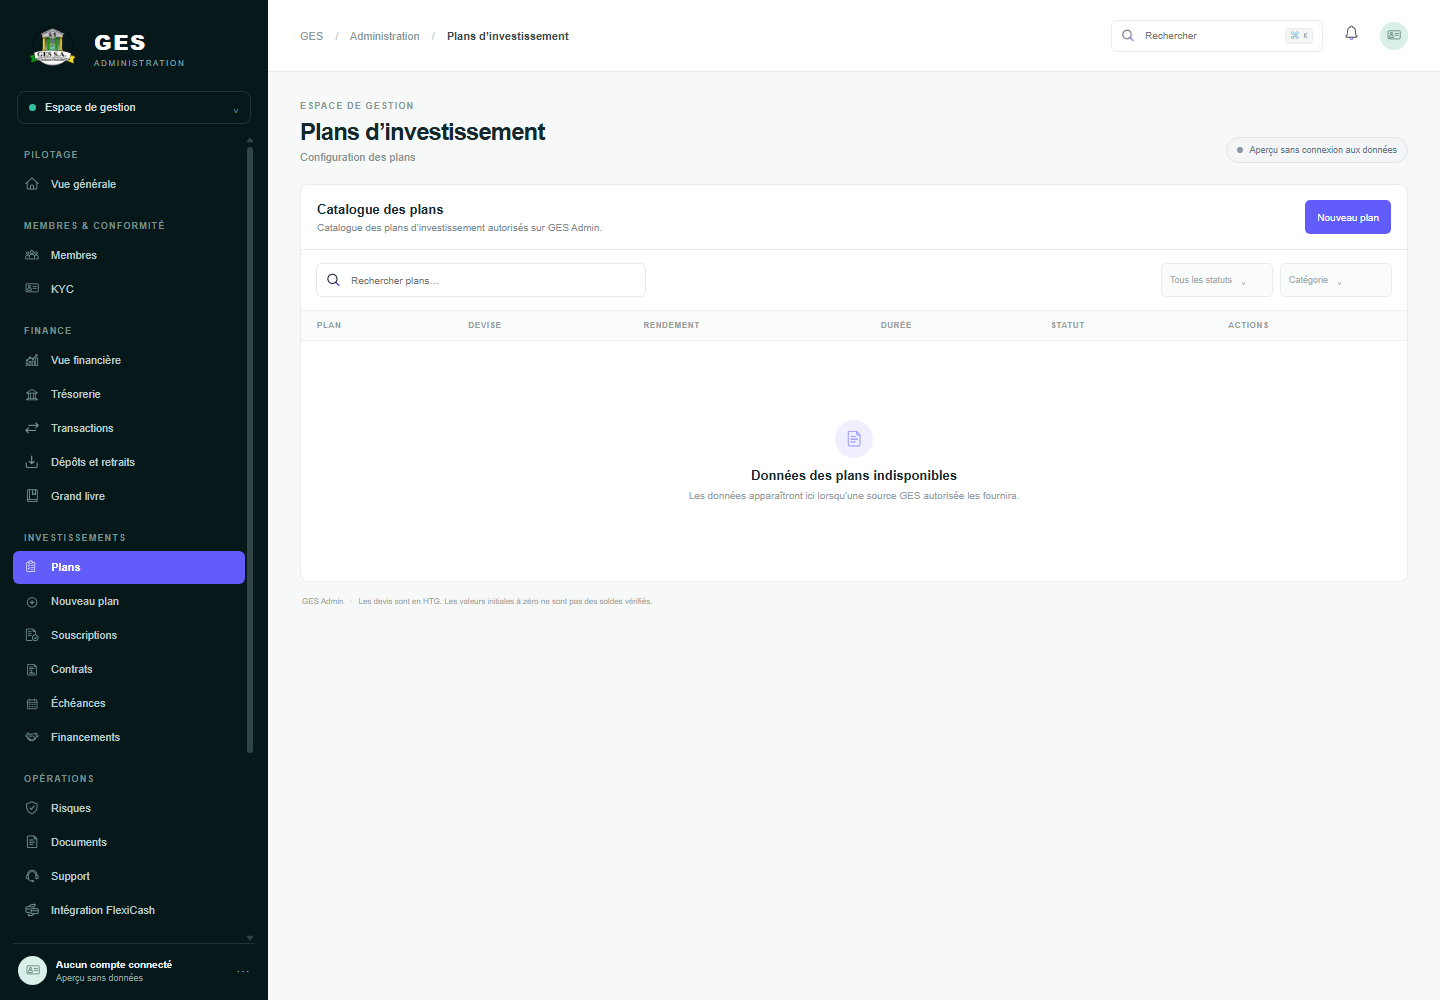
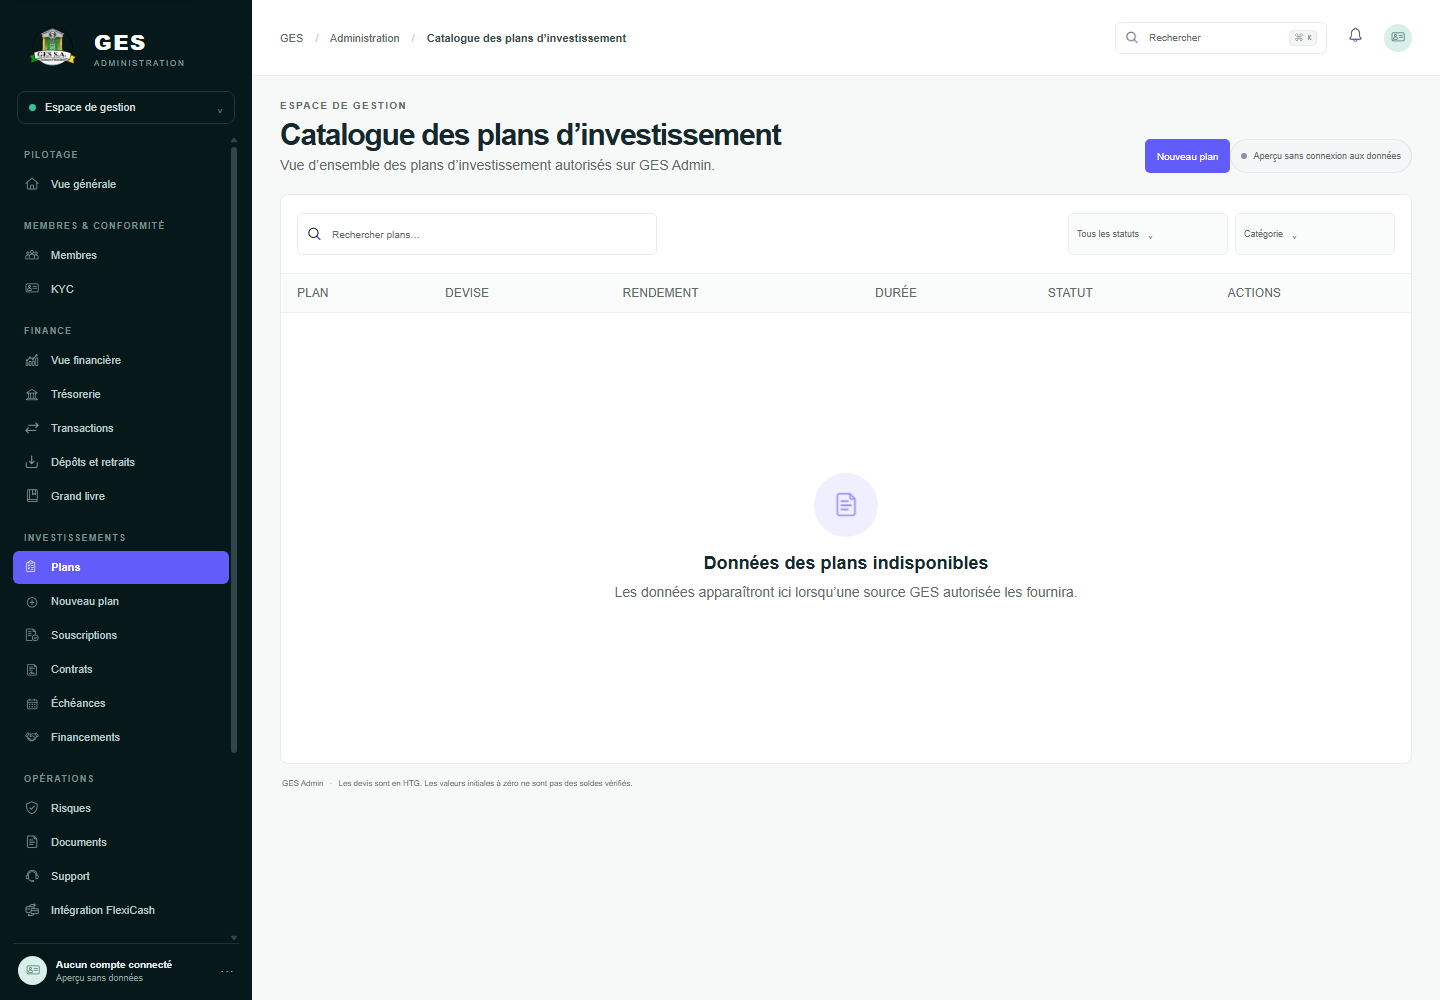
Align investment plan catalogue with MF-14

diff --git a/components/admin-shell.tsx b/components/admin-shell.tsx
@@ -24,7 +24,7 @@ const pages: Record<string, { title: string; subtitle: string }> = {
   "vue-generale": { title: "Centre de commandement", subtitle: "Vue d’ensemble de l’activité financière et opérationnelle de GES Admin." },
   membres: { title: "Membres", subtitle: "Consultez et gérez les comptes membres." }, kyc: { title: "Conformité KYC", subtitle: "Vérification des dossiers" },
   "vue-financiere": { title: "Vue financière générale", subtitle: "Aperçu de la position financière de GES Admin en HTG et USD." }, tresorerie: { title: "Trésorerie", subtitle: "Positions de trésorerie" }, transactions: { title: "Transactions", subtitle: "Consultez et gérez l’ensemble des transactions." },
-  "depots-retraits": { title: "Dépôts et retraits", subtitle: "Suivi des mouvements entrants et sortants" }, "grand-livre": { title: "Grand livre et rapprochement", subtitle: "Consultation du grand livre comptable et rapprochement des soldes." }, plans: { title: "Plans d’investissement", subtitle: "Configuration des plans" },
+  "depots-retraits": { title: "Dépôts et retraits", subtitle: "Suivi des mouvements entrants et sortants" }, "grand-livre": { title: "Grand livre et rapprochement", subtitle: "Consultation du grand livre comptable et rapprochement des soldes." }, plans: { title: "Catalogue des plans d’investissement", subtitle: "Vue d’ensemble des plans d’investissement autorisés sur GES Admin." },
   souscriptions: { title: "Souscriptions", subtitle: "Demandes de souscription" }, contrats: { title: "Contrats d’investissement", subtitle: "Registre des contrats d’investissement GES." }, echeances: { title: "Échéances", subtitle: "Calendrier des échéances" }, financements: { title: "Financements", subtitle: "Suivi des financements" }, "plans/nouveau": { title: "Nouveau plan d’investissement", subtitle: "Créer un nouveau plan d’investissement (brouillon)." },
   risques: { title: "Risques", subtitle: "Suivi des alertes et contrôles" }, documents: { title: "Documents", subtitle: "Bibliothèque documentaire" }, support: { title: "Support", subtitle: "Demandes d’assistance" }, rapports: { title: "Rapports", subtitle: "Rapports de gestion" }, equipe: { title: "Équipe", subtitle: "Accès et rôles de l’équipe" }, audit: { title: "Audit", subtitle: "Journal des actions administratives" }, parametres: { title: "Paramètres", subtitle: "Configuration de l’espace" }, notifications: { title: "Notifications", subtitle: "Centre de notifications administratives" }, "roles-permissions": { title: "Rôles et permissions", subtitle: "Les permissions effectives sont contrôlées côté serveur" }, "integrations-flexicash": { title: "Intégration FlexiCash", subtitle: "Les espaces GES et FlexiCash restent séparés" },
 };
@@ -148,7 +148,7 @@ export function AdminShell({ section }: { section: string }) {
     </aside>
     {menuOpen && <button className="drawer-backdrop visible" type="button" aria-label="Fermer le menu" tabIndex={-1} onClick={closeMenu}/>}
     <main className="main-area" id="main-content" tabIndex={-1} inert={menuOpen}><header className="topbar"><button ref={menuButtonRef} className="mobile-menu-toggle" onClick={() => menuOpen ? closeMenu() : setMenuOpen(true)} aria-label={menuOpen ? "Fermer le menu" : "Ouvrir le menu"} aria-expanded={menuOpen} aria-controls="primary-navigation">{menuOpen ? <Image src="/assets/icons/close.webp" alt="" width={19} height={19}/> : <span className="menu-bars" aria-hidden="true"/>}</button><div className="breadcrumb">GES <span>/</span> Administration <span>/</span> <b>{page.title}</b></div><div className="top-actions"><label className="search"><Image src="/assets/icons/search.webp" alt="" width={15} height={15}/><input placeholder="Rechercher" aria-label="Rechercher" value={searchQuery} onChange={(event) => setSearchQuery(event.target.value)}/><kbd>⌘ K</kbd></label><Link href="/admin/notifications" className="bell" aria-label="Notifications"><Image src="/assets/icons/notification.webp" alt="" width={19} height={19}/></Link><div className="top-avatar"><Image src="/assets/icons/identity.webp" alt="" width={16} height={16}/></div></div></header>
-      <div className={`content ${key === "plans/nouveau" ? "plan-content" : ""}`}><div className="page-heading"><div>{key !== "transactions" && <div className="eyebrow">ESPACE DE GESTION</div>}<h1>{page.title}</h1><p>{page.subtitle}</p></div><div className="heading-actions"><span className="status-pill preview-pill"><i/> Aperçu sans connexion aux données</span></div></div>
+      <div className={`content ${key === "plans/nouveau" ? "plan-content" : ""}`}><div className="page-heading"><div>{key !== "transactions" && <div className="eyebrow">ESPACE DE GESTION</div>}<h1>{page.title}</h1><p>{page.subtitle}</p></div><div className="heading-actions">{key === "plans" && <Link className="primary-button" href="/admin/plans/nouveau">Nouveau plan</Link>}<span className="status-pill preview-pill"><i/> Aperçu sans connexion aux données</span></div></div>
       {key === "notifications" ? <NotificationsWorkspace query={searchQuery} onQueryChange={setSearchQuery}/> : key === "plans/nouveau" ? <><Link href="/admin/plans" className="plan-back">← Retour aux plans</Link><PlanForm/></> : overview ? <>{financial && <div className="module-notice">Valeurs initiales — les montants affichés sont à confirmer et ne constituent pas des soldes vérifiés.</div>}<div className={`metric-grid ${financial ? "financial-metrics" : ""}`}>{metrics.map(([label,value,caption])=><MetricCard key={label} label={label} value={value} caption={caption}/>)}</div>
       {financial && <UsdUnavailable/>}
       <div className={`overview-grid ${financial ? "financial-overview-grid" : "command-overview-grid"}`}><section className="panel"><div className="panel-head"><div><h2>{financial ? "Tendance de trésorerie" : "Tendance financière"}</h2></div>{financial && <button className="select-button" disabled title="Les données sont indisponibles">Période⌄</button>}</div><div className="chart-empty"><div className="chart-lines"><span/><span/><span/><span/></div><div className="chart-message">Aucune donnée disponible</div></div></section><section className="panel breakdown"><div className="panel-head"><div><h2>{financial ? "Obligations à venir" : "Répartition des investissements"}</h2></div>{financial && <button className="dots" disabled aria-label="Options indisponibles">···</button>}</div>{financial ? <div className="donut-wrap"><p>Aucune donnée disponible</p></div> : <div className="donut-wrap"><div className="donut"><div/></div><p>Aucune donnée disponible</p></div>}</section></div>

diff --git a/components/module-workspace.tsx b/components/module-workspace.tsx
@@ -2,7 +2,6 @@
 
 import { useState } from "react";
 import Image from "next/image";
-import Link from "next/link";
 
 type ModulePage = {
   columns: string[];
@@ -11,7 +10,6 @@ type ModulePage = {
   description: string;
   searchPlaceholder?: string;
   tabs?: string[];
-  action?: { label: string; href: string };
 };
 
 const pages: Record<string, ModulePage> = {
@@ -19,7 +17,7 @@ const pages: Record<string, ModulePage> = {
   kyc: { description: "Consultez les dossiers de vérification retournés par une source GES autorisée.", filters: ["Tous les dossiers", "Tous les statuts"], columns: ["PRIORITÉ", "DOSSIER", "DATE DE SOUMISSION", "RÉVISEUR", "STATUT", "ACTIONS"], empty: "Données KYC indisponibles" },
   transactions: { description: "Consultez les transactions retournées par une source GES autorisée.", searchPlaceholder: "Rechercher une transaction…", filters: ["Tous les types", "Tous les statuts", "Sélectionner une période"], columns: ["Date", "Référence", "Membre", "Type", "Montant (HTG)", "Statut", "Actions"], empty: "Données de transaction indisponibles" },
   "depots-retraits": { description: "Suivez les dépôts et retraits liés aux opérations GES.", filters: ["Tous les statuts", "Période"], tabs: ["Toutes les opérations", "Dépôts", "Retraits"], columns: ["DATE", "RÉFÉRENCE", "MEMBRE", "TYPE", "MONTANT (HTG)", "STATUT"], empty: "Données opérationnelles indisponibles" },
-  plans: { description: "Catalogue des plans d’investissement autorisés sur GES Admin.", filters: ["Tous les statuts", "Catégorie"], columns: ["PLAN", "DEVISE", "RENDEMENT", "DURÉE", "STATUT", "ACTIONS"], empty: "Données des plans indisponibles", action: { label: "Nouveau plan", href: "/admin/plans/nouveau" } },
+  plans: { description: "Catalogue des plans d’investissement autorisés sur GES Admin.", filters: ["Tous les statuts", "Catégorie"], columns: ["PLAN", "DEVISE", "RENDEMENT", "DURÉE", "STATUT", "ACTIONS"], empty: "Données des plans indisponibles" },
   souscriptions: { description: "Consultez les souscriptions retournées par une source GES autorisée.", filters: ["Tous les statuts", "Tous les plans"], columns: ["DATE", "PLAN", "MEMBRE", "MONTANT INVESTI (HTG)", "STATUT", "ACTIONS"], empty: "Données de souscription indisponibles" },
   contrats: { description: "Registre des contrats d’investissement retournés par une source GES autorisée.", filters: ["Tous les statuts", "Tous les plans", "Période"], columns: ["CONTRAT", "MEMBRE", "PLAN", "PRINCIPAL (HTG)", "DATE DE DÉBUT", "ÉCHÉANCE", "STATUT", "DOCUMENTS"], empty: "Données contractuelles indisponibles" },
   financements: { description: "Dossiers de financement relevant de GES.", filters: ["Tous les statuts", "Tous les types"], columns: ["PROJET OU BÉNÉFICIAIRE", "MONTANT PROPOSÉ (HTG)", "ÉVALUATION DU RISQUE", "DOCUMENTS", "STATUT", "ÉTAPES"], empty: "Données de financement indisponibles" },
@@ -75,5 +73,5 @@ export function ModuleWorkspace({ sectionKey, query, onQueryChange }: { sectionK
 }
 
 function GenericTable({ sectionKey, page, query, onQueryChange, activeTab, setActiveTab }: { sectionKey: string; page: ModulePage; query: string; onQueryChange: (value: string) => void; activeTab: number; setActiveTab: (value: number) => void }) {
-  return <section className="panel list-panel module-list-panel">{page.action && <div className="module-panel-header"><div><h2>Catalogue des plans</h2><p>{page.description}</p></div><Link className="primary-button" href={page.action.href}>{page.action.label}</Link></div>}{page.tabs && <div className="module-tabs">{page.tabs.map((tab, index) => <button key={tab} className={activeTab === index ? "selected" : ""} onClick={() => setActiveTab(index)}>{tab}</button>)}</div>}<div className="module-toolbar"><label className="filter-search"><Image src="/assets/icons/search.webp" alt="" width={16} height={16}/><input aria-label={`Rechercher dans ${sectionKey}`} placeholder={page.searchPlaceholder ?? `Rechercher ${sectionKey.replaceAll("-", " ")}…`} value={query} onChange={(event) => onQueryChange(event.target.value)}/></label><div className="module-filter-row">{page.filters.map((filter) => <button key={filter} className="filter-button" disabled>{filter}<span>⌄</span></button>)}</div></div><div className="table-wrap"><table><thead><tr>{page.columns.map((column, index) => <th key={column} className={column.includes("HTG") ? "align-right" : ""}>{column}</th>)}</tr></thead><tbody><tr><td colSpan={page.columns.length}><EmptyState title={page.empty} searching={query.trim().length > 0}/></td></tr></tbody></table></div></section>;
+  return <section className="panel list-panel module-list-panel">{page.tabs && <div className="module-tabs">{page.tabs.map((tab, index) => <button key={tab} className={activeTab === index ? "selected" : ""} onClick={() => setActiveTab(index)}>{tab}</button>)}</div>}<div className="module-toolbar"><label className="filter-search"><Image src="/assets/icons/search.webp" alt="" width={16} height={16}/><input aria-label={`Rechercher dans ${sectionKey}`} placeholder={page.searchPlaceholder ?? `Rechercher ${sectionKey.replaceAll("-", " ")}…`} value={query} onChange={(event) => onQueryChange(event.target.value)}/></label><div className="module-filter-row">{page.filters.map((filter) => <button key={filter} className="filter-button" disabled>{filter}<span>⌄</span></button>)}</div></div><div className="table-wrap"><table><thead><tr>{page.columns.map((column, index) => <th key={column} className={column.includes("HTG") ? "align-right" : ""}>{column}</th>)}</tr></thead><tbody><tr><td colSpan={page.columns.length}><EmptyState title={page.empty} searching={query.trim().length > 0}/></td></tr></tbody></table></div></section>;
 }

diff --git a/design/qa/README.md b/design/qa/README.md
@@ -142,3 +142,5 @@ MF-15 mobile pleine page en état par défaut : la nouvelle référence v2 est `
 Révision MF-10 du 29 octobre : le panneau de liste ne répète plus le titre et la description, les filtres et l’en-tête de tableau reprennent les libellés de la référence, et l’état vide conserve explicitement l’indisponibilité des transactions. Captures de l’application : `admin-transactions-1440x1000.png` et `admin-transactions-390x844.png`; comparaisons desktop dans `frame-review/app-vs-reference/comparison-03.png` et mobile dans `frame-review/MF-10-transactions-mobile-review.png`. Le contrôle Chrome rapporte un titre « Transactions », l’état de données indisponibles, `scrollWidth` égal à 1440 px et 390 px respectivement; les montants de tableau restent libellés en HTG et aucune transaction n’est inventée. La comparaison mobile laisse des écarts de shell et de copie avec la proposition; MF-10 reste à revoir, non verrouillé.
 
 Reverification MF-15 du 29 octobre : états desktop replié (1440 × 1100), ouvert (1440 × 1350) et mobile pleine page (390 × 1367) capturés. Comparaisons desktop `comparison-mf15-default.png` et `comparison-mf15-open.png`; comparaison mobile `frame-review/MF-15-mobile-fullpage-comparison.png`. Le navigateur confirme HTG, six valeurs numériques à zéro, saisies textuelles vides, exactement deux actions visibles et désactivées, et les quatre panneaux dans l’état attendu. Pas de débordement horizontal; shell et typographie conservent des écarts visuels, les références restent proposées.
+
+Revue MF-14 : les captures dmin-plans-1440x1000.png et dmin-plans-390x844.png couvrent le catalogue vide. Le bouton « Nouveau plan » se trouve dans l’en-tête, aucun plan fictif n’est affiché, et Chrome DevTools confirme l’absence de débordement de page aux deux largeurs. Sur 390 px, le tableau possède un défilement horizontal interne.
